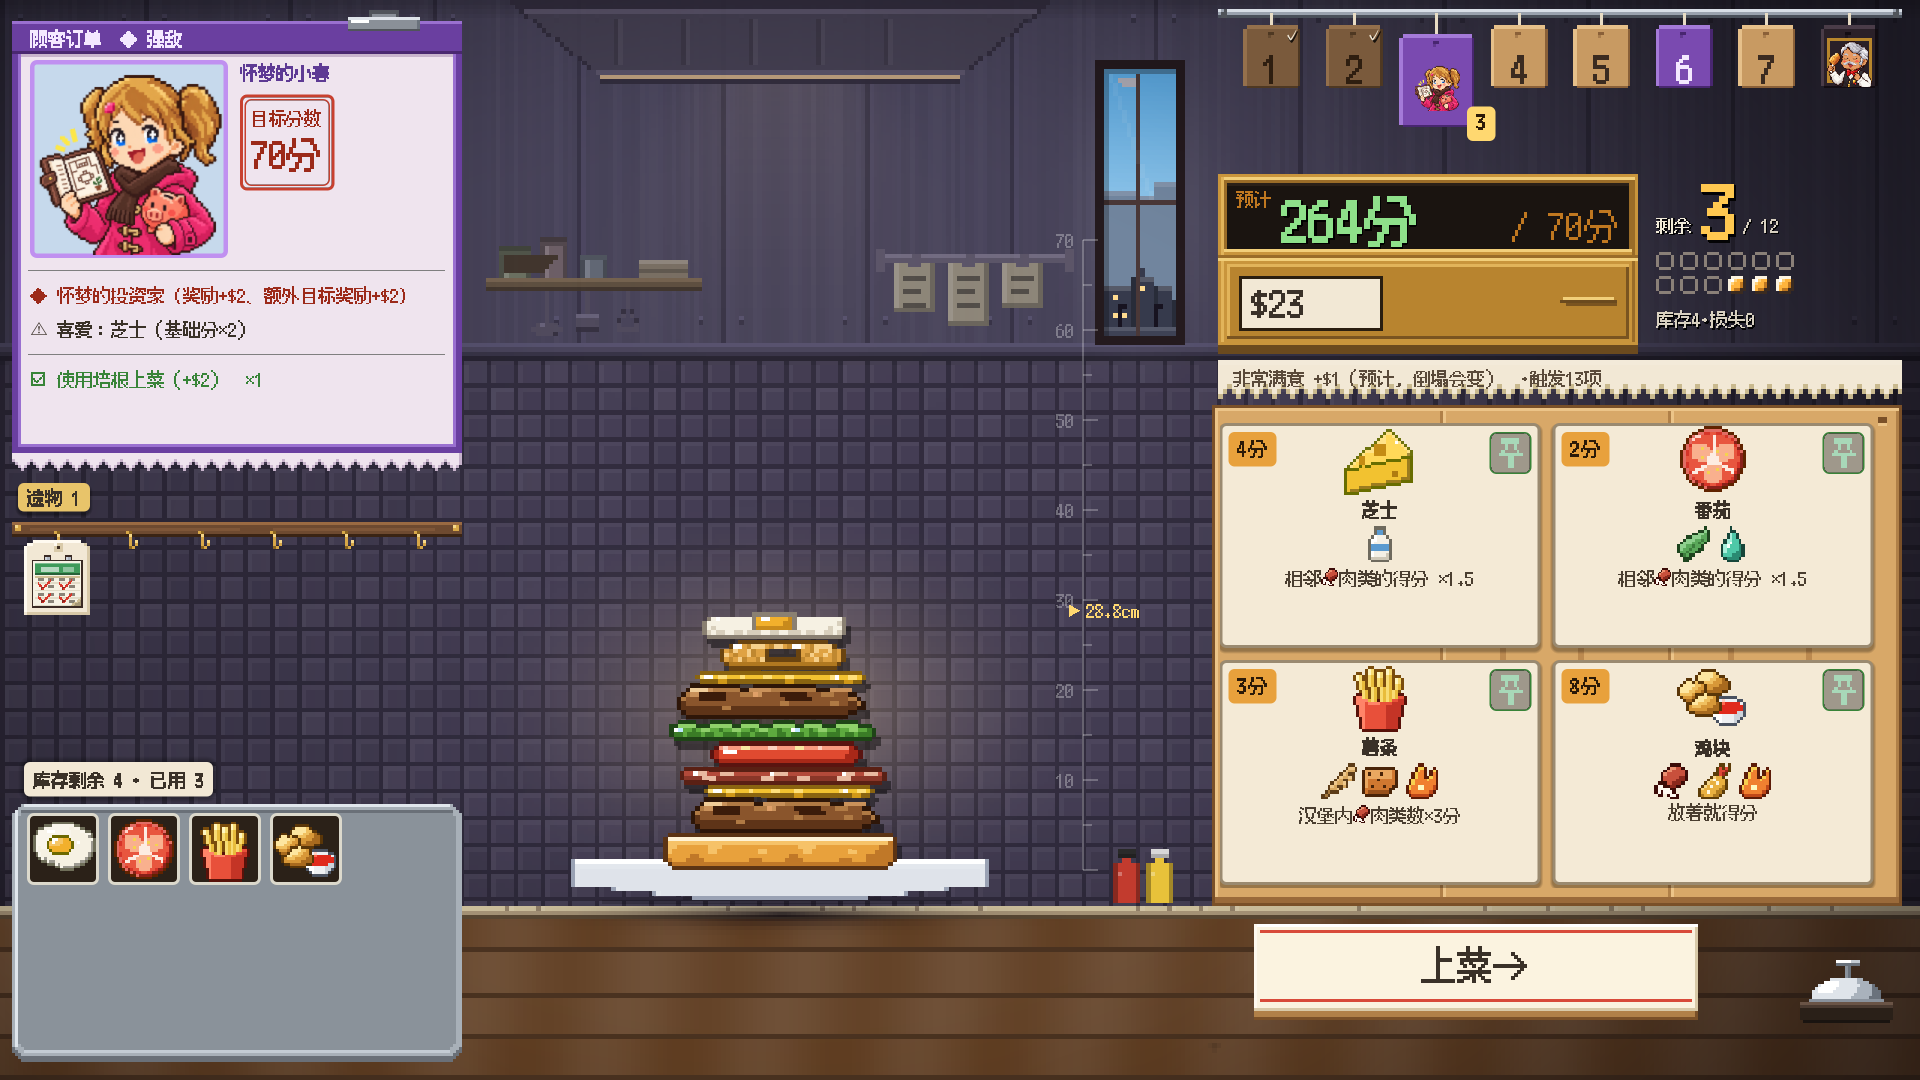
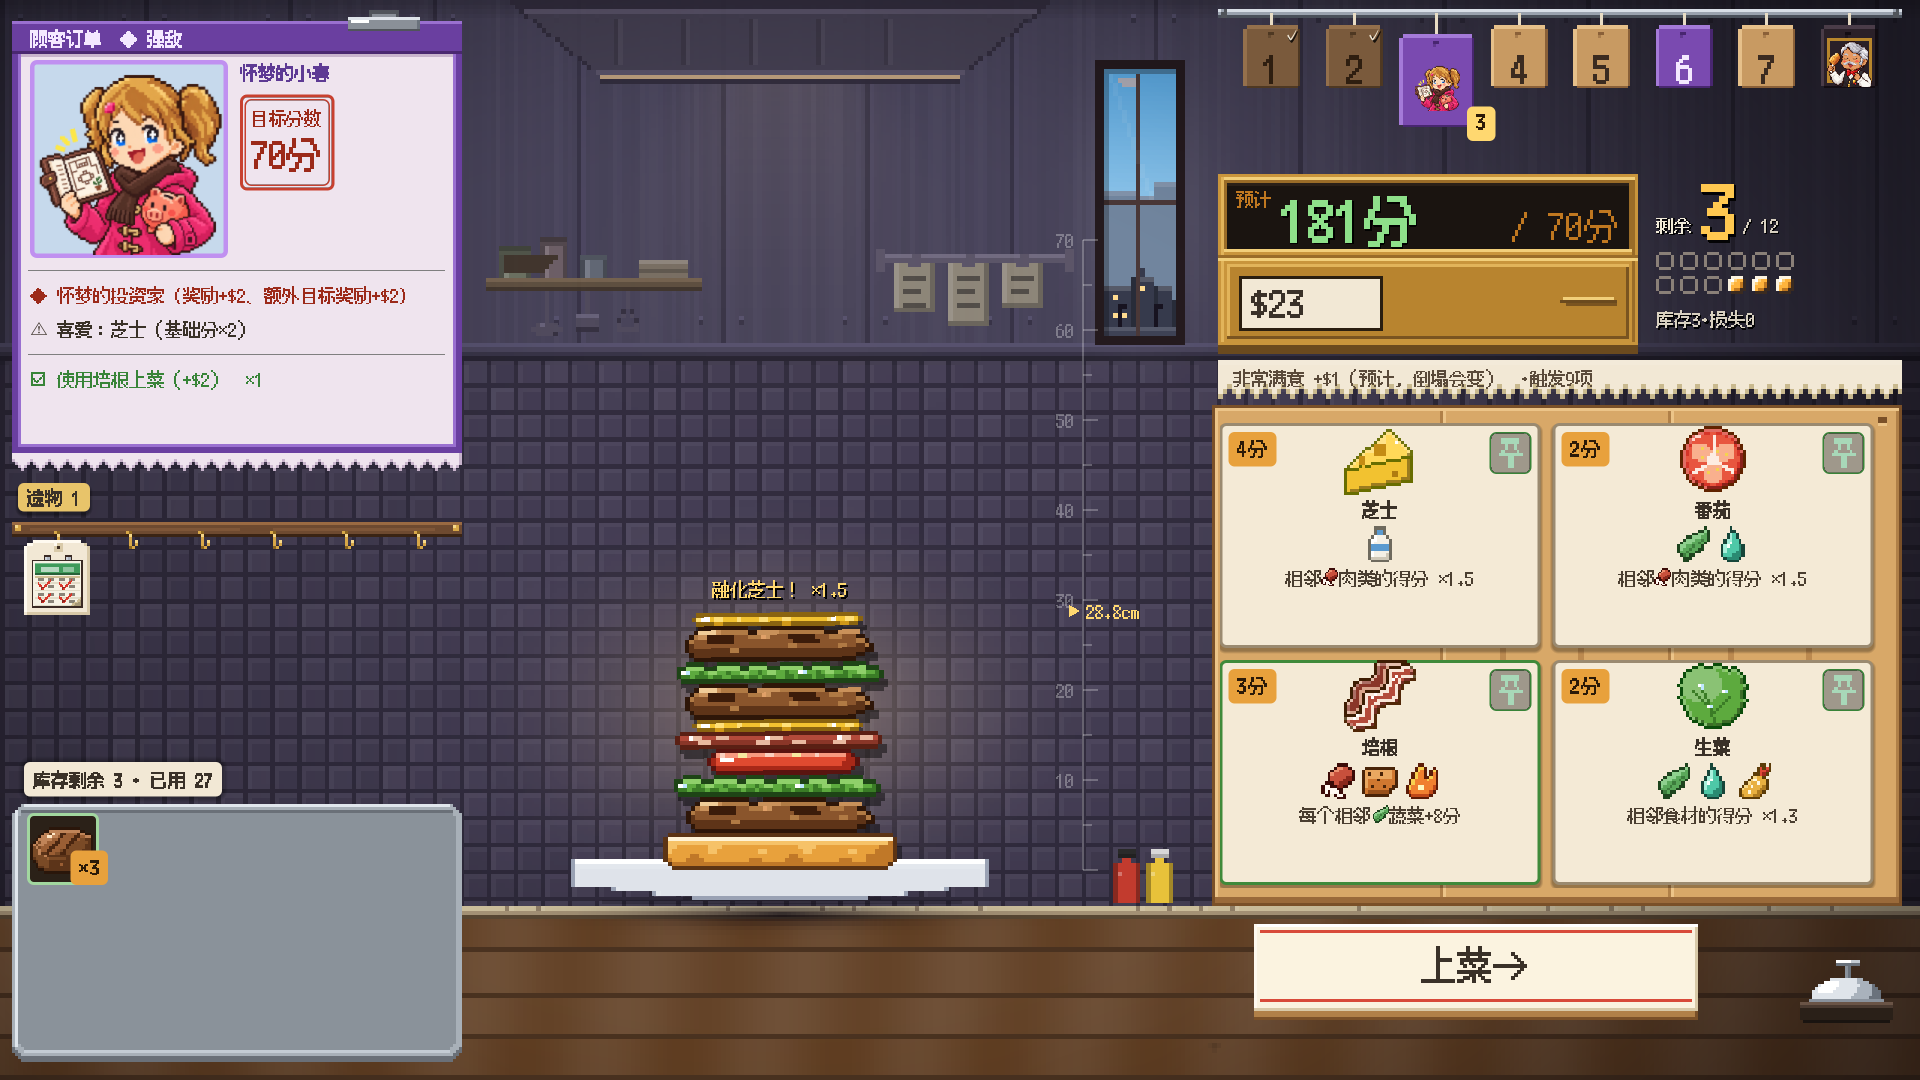
スクショの 2 枚目をストアと同じコンボの絵 (手札とチーズ→パティの予告) に差し替え

diff --git a/tools/import_assets.py b/tools/import_assets.py
@@ -20,7 +20,7 @@ FORCE = "--force" in sys.argv
 # 2026-09-23: スクショはゲーム側の build/store (tools/store_shots.ps1 の出力 = Steam のストアに上げているのと
 # 同じ 1920x1080) から取る。以前は docs/store/screenshots/ の古い置き場から、日英だけ別選定の 5 枚
 # (2560px の 1/2) を取っていて、ストアを撮り直しても古い客・古い店主のままだった。並びも全言語で揃える
-SHOTS = ["1_title", "3_run", "4_result", "5_shop", "6_codex"]
+SHOTS = ["1_title", "9_combo", "4_result", "5_shop", "6_codex"]  # 2 枚目は 2026-11-08 にストアと同じコンボの絵へ
 SPEC = {
     "ja": ("japanese", "ja"),
     "en": ("english", "en"),
